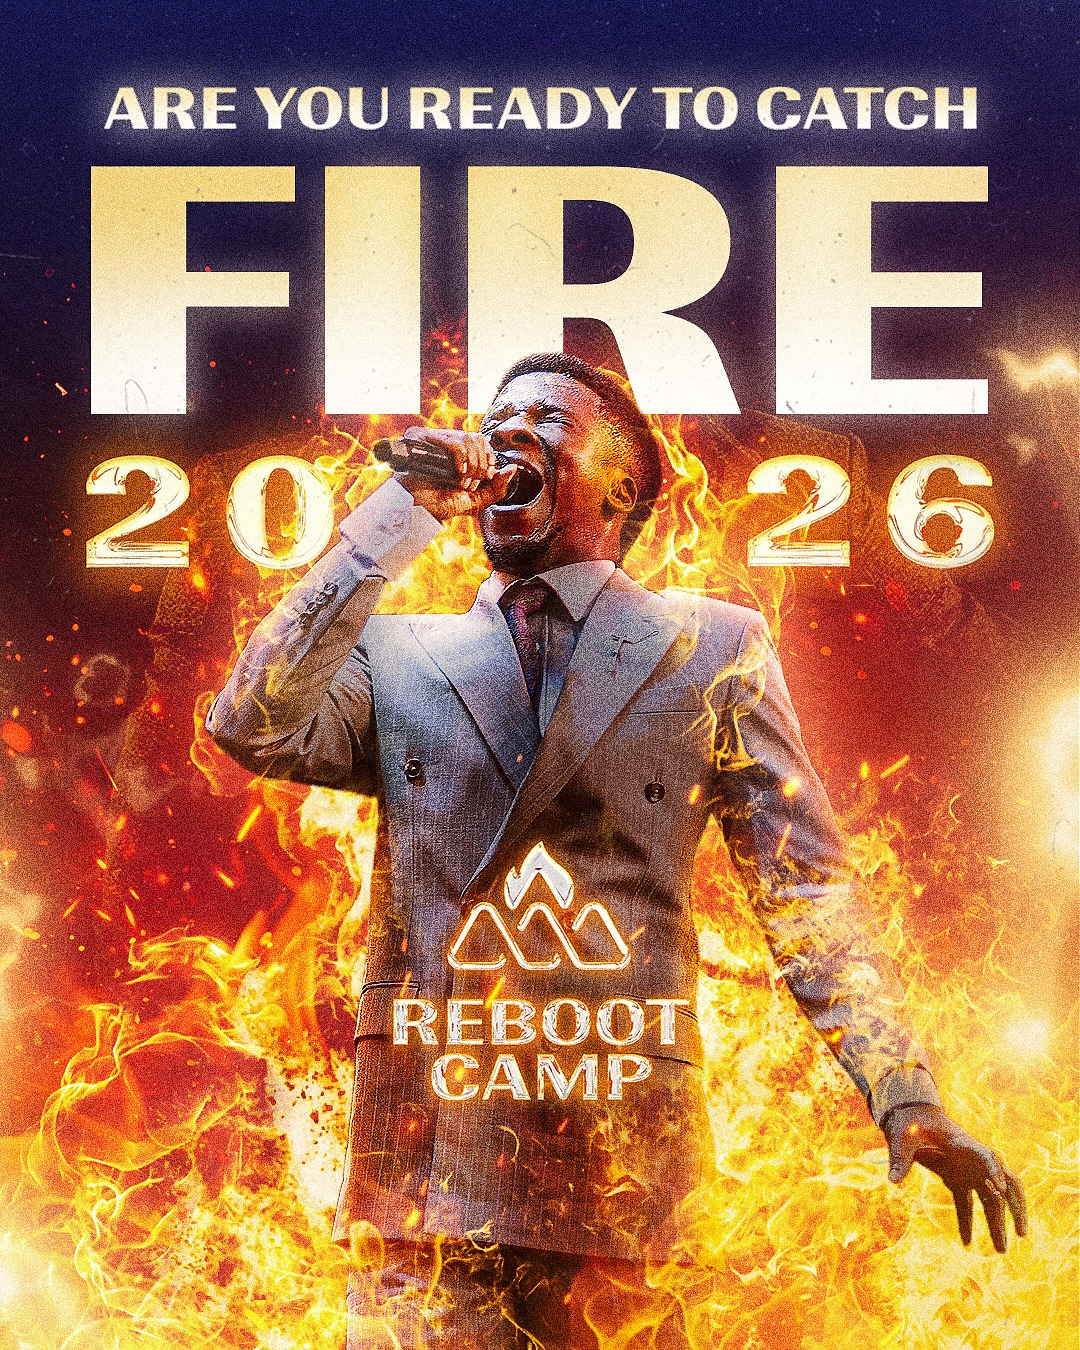
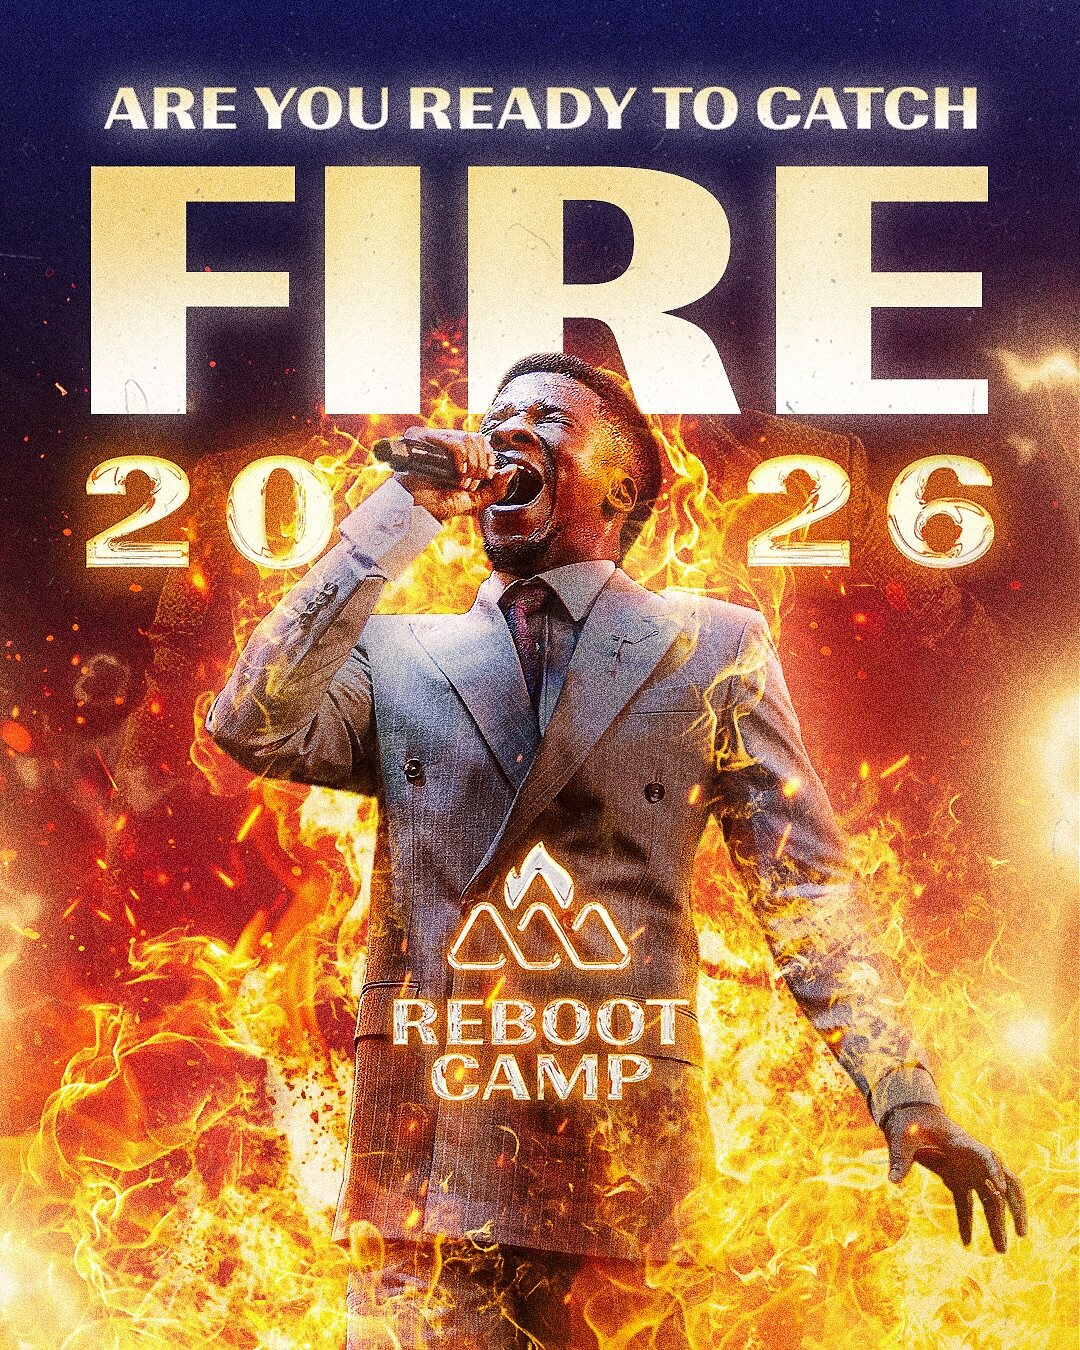
feat: change hero flyer image to have the ministers

diff --git a/src/app/components/Hero.tsx b/src/app/components/Hero.tsx
@@ -1,6 +1,6 @@
 import { useState, useEffect, useMemo } from "react";
 import { MapPin, Calendar, ChevronDown } from "lucide-react";
-import mainFlyer from "@/assets/images/rbc-na-pivot-main-flyer.jpg";
+import ministersFlyer from "@/assets/images/rbc-na-ministers-flyer.webp";
 import fireFlyer from "@/assets/images/rbc-na-fire-flyer.jpg";
 import { useTheme } from "@/app/contexts/ThemeContext";
 import { useSiteContent } from "@/app/hooks/useSiteContent";
@@ -246,7 +246,13 @@ export function Hero() {
                 zIndex: 1,
               }}
             >
-              <Image src={mainFlyer} alt="Reboot Camp Fire" className="w-full h-auto" loading="eager" />
+              <Image
+                src={fireFlyer}
+                alt="Reboot Camp North America fire flyer"
+                className="w-full h-auto"
+                loading="eager"
+                sizes="(min-width: 1024px) 28rem, (min-width: 640px) 24rem, 20rem"
+              />
             </motion.div>
             <motion.div
               variants={scaleIn}
@@ -260,7 +266,13 @@ export function Hero() {
               className="relative rounded-xl overflow-hidden shadow-2xl"
               style={{ zIndex: 2, boxShadow: "0 20px 60px rgba(232,92,4,0.4)" }}
             >
-              <Image src={fireFlyer} alt={`${event.name} — ${event.theme}`} className="w-full h-auto" loading="eager" />
+              <Image
+                src={ministersFlyer}
+                alt={`${event.name} — ${event.theme}`}
+                className="w-full h-auto"
+                loading="eager"
+                sizes="(min-width: 1024px) 28rem, (min-width: 640px) 24rem, 20rem"
+              />
             </motion.div>
             <div className="absolute -bottom-8 left-1/2 -translate-x-1/2 w-3/4 h-12 rounded-full opacity-40" style={{ backgroundImage: "radial-gradient(ellipse, #E85D04, transparent 70%)", filter: "blur(12px)" }} />
           </div>

diff --git a/src/app/components/PageInner.tsx b/src/app/components/PageInner.tsx
@@ -19,36 +19,42 @@ import { GivingSection } from "@/app/components/GivingSection";
 import { Footer } from "@/app/components/Footer";
 
 export function PageInner() {
+  return (
+    <ThemeProvider>
+      <PageContent />
+    </ThemeProvider>
+  );
+}
+
+function PageContent() {
   const { t } = useTheme();
 
   return (
-    <ThemeProvider>
-      <div
-        style={{
-          background: t.pageBg,
-          minHeight: "100vh",
-          fontFamily: "'Inter', sans-serif",
-          overflowX: "hidden",
-          transition: "background 0.4s ease",
-        }}
-      >
-        <Navbar />
-        <Hero />
-        <AboutSection />
-        <RegistrationSection />
-        <ChildcareSection />
-        <SundayServiceSection />
-        <ScheduleSection />
-        <SpeakersSection />
-        <AccommodationSection />
-        <FlightDiscountsSection />
-        <TransportationSection />
-        <VenueSection />
-        {/* <PastEventsSection /> */}
-        <FAQSection />
-        <GivingSection />
-        <Footer />
-      </div>
-    </ThemeProvider>
+    <div
+      style={{
+        background: t.pageBg,
+        minHeight: "100vh",
+        fontFamily: "'Inter', sans-serif",
+        overflowX: "hidden",
+        transition: "background 0.4s ease",
+      }}
+    >
+      <Navbar />
+      <Hero />
+      <AboutSection />
+      <RegistrationSection />
+      <ChildcareSection />
+      <SundayServiceSection />
+      <ScheduleSection />
+      <SpeakersSection />
+      <AccommodationSection />
+      <FlightDiscountsSection />
+      <TransportationSection />
+      <VenueSection />
+      {/* <PastEventsSection /> */}
+      <FAQSection />
+      <GivingSection />
+      <Footer />
+    </div>
   );
 }

diff --git a/src/app/components/Footer.tsx b/src/app/components/Footer.tsx
@@ -7,6 +7,8 @@ import Image from "next/image";
 
 // const SOCIAL_ICON_MAP: Record<string, React.ElementType> = { Instagram, Facebook, Youtube, Twitter };
 
+const COPYRIGHT_YEAR = 2026;
+
 export function Footer() {
   const { t } = useTheme();
   const { navbar, footer, site, venue } = useSiteContent();
@@ -109,7 +111,7 @@ export function Footer() {
       <div className="border-t py-6" style={{ borderColor: t.footerBottomBorder }}>
         <div className="max-w-7xl mx-auto px-4 sm:px-6 lg:px-8 flex flex-col sm:flex-row items-center justify-between gap-3">
           <p className="text-xs" style={{ fontFamily: "'Inter', sans-serif", color: t.textDim }}>
-            &copy; {new Date().getFullYear()} {site.orgName}. All rights reserved.
+            &copy; {COPYRIGHT_YEAR} {site.orgName}. All rights reserved.
           </p>
           <div className="flex gap-5">
             {footer.legalLinks.map((item) => (

diff --git a/src/app/layout.tsx b/src/app/layout.tsx
@@ -38,7 +38,10 @@ export default function RootLayout({
 }>) {
   return (
     <html lang="en" className="scroll-smooth">
-      <body className={`${barlowCondensed.variable} ${inter.variable} ${oswald.variable}`}>
+      <body
+        suppressHydrationWarning
+        className={`${barlowCondensed.variable} ${inter.variable} ${oswald.variable}`}
+      >
         {children}
         <Analytics />
         <SpeedInsights />
